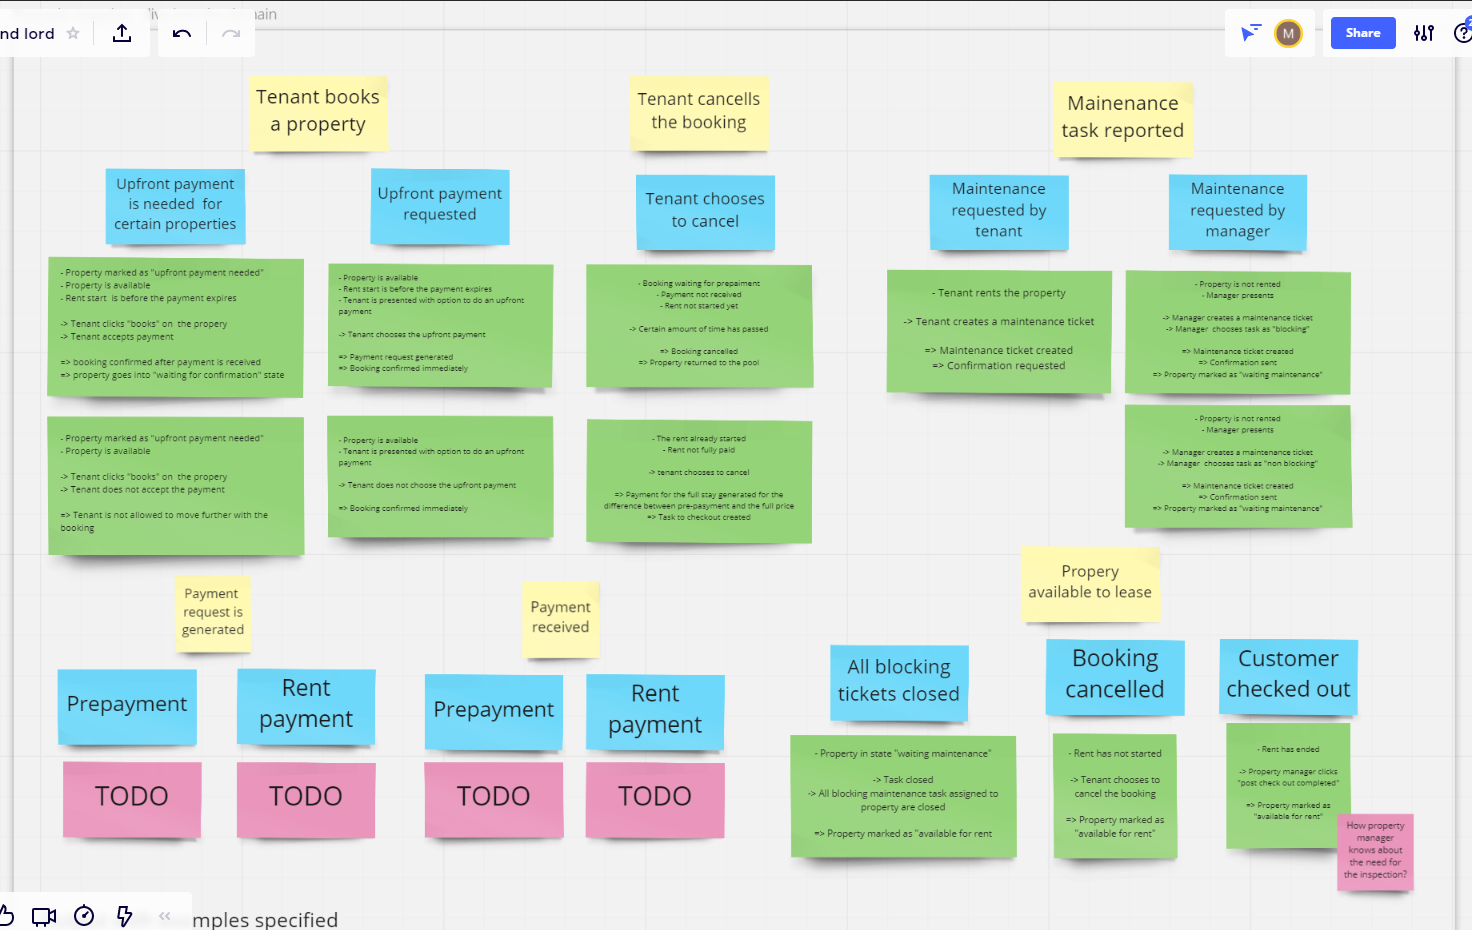
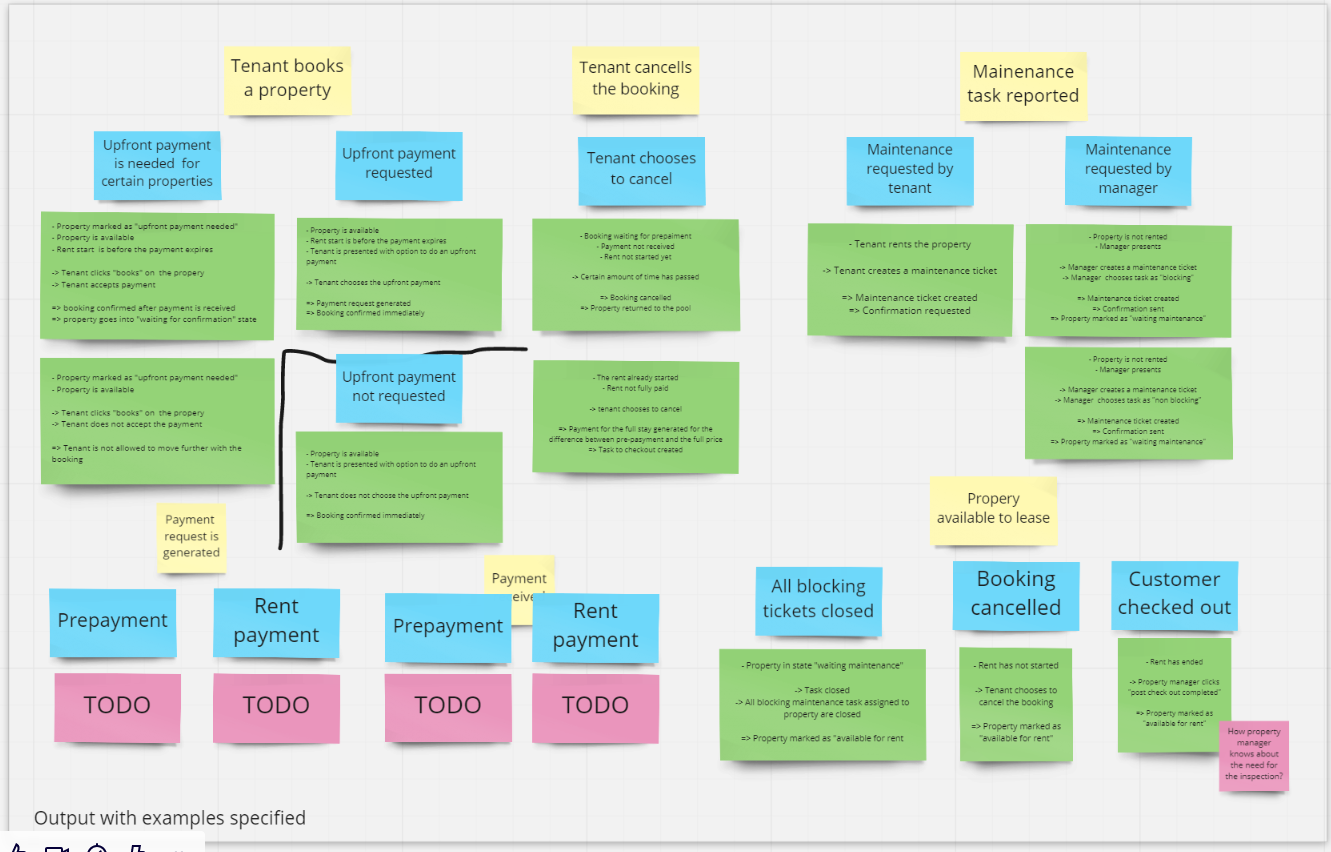
Event Storming WiP

diff --git a/README.md b/README.md
@@ -92,19 +92,13 @@ After some refinement board looks like this:
 The next step was [example mapping](https://cucumber.io/blog/bdd/example-mapping-introduction/). I added this step in order to help me with
 defining business scenarios, tests for them and come up with the prioritized task list.
 
-The example mapping did not end with all possible examples as this is only a demo project, and it contains
-enough to proceed with the further design. However inte
-
 The result of the mapping is here: ![Example mapping](docs/images/example-mapping.png)
 
-The example mapping did not end with all possible examples as this is only a demo 
-project, and it contains enough to proceed with the further design.
+I did not exhaust all scenarios, and in the real world I would not consider this step as completed, 
+however it allows me to continue with the demo project and, interestingly shows possible changes in the domain description.
+Which leads to yet another domain event session:
 
-However, the example mapping shed much more light on the domain and makes me think about 
-the landlord as a simple glue logic between ticketing system, payment system, 
-and the property browser system. This in turn leads to another step of event storming.
-
-<em> Refinement pt 2 goes here </em>
+![Domain events refined again](docs/images/Event-Storming-Big-Picture-step-2.1.png)
 
 The next step was the detailed process modelling:
 - actors
@@ -116,7 +110,6 @@ The next step was the detailed process modelling:
 
 The result of modelling is captured here:
 ![Process modelling](docs/images/Event-Storming-Process-modelling.png)
-
 
 After this step I was ready to answer the following questions:
 - What aggregates were discovered?
